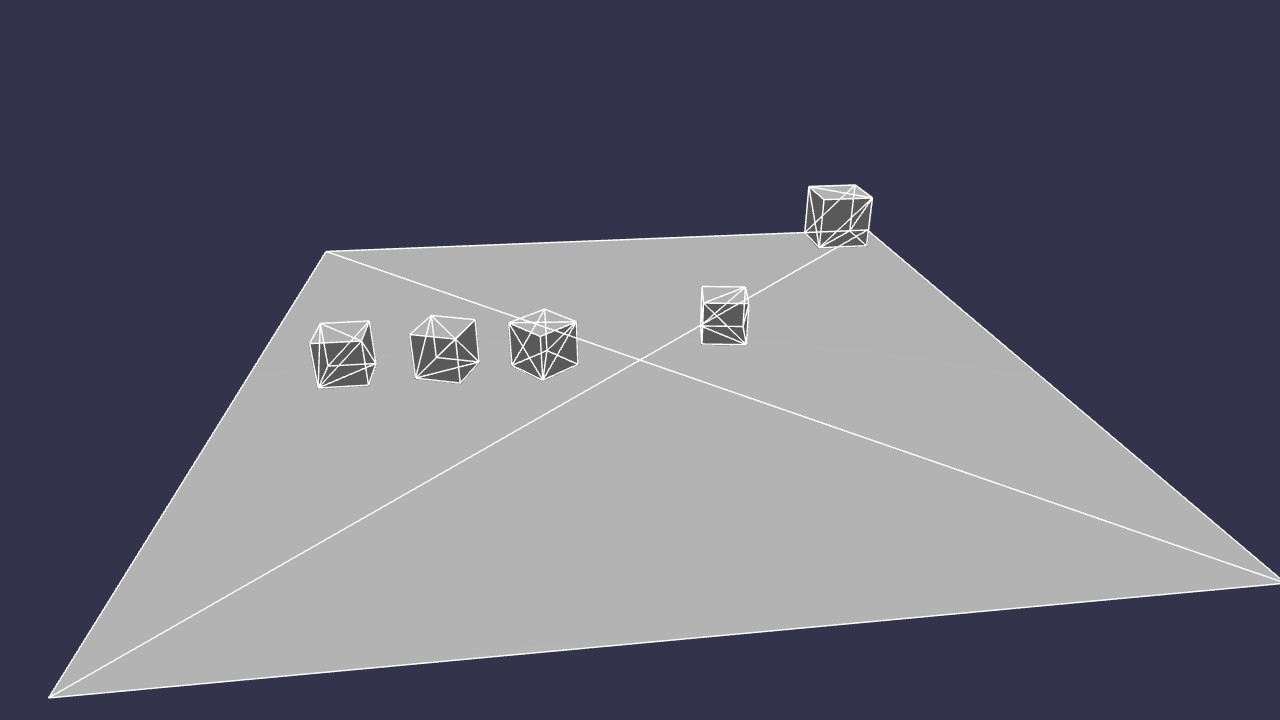
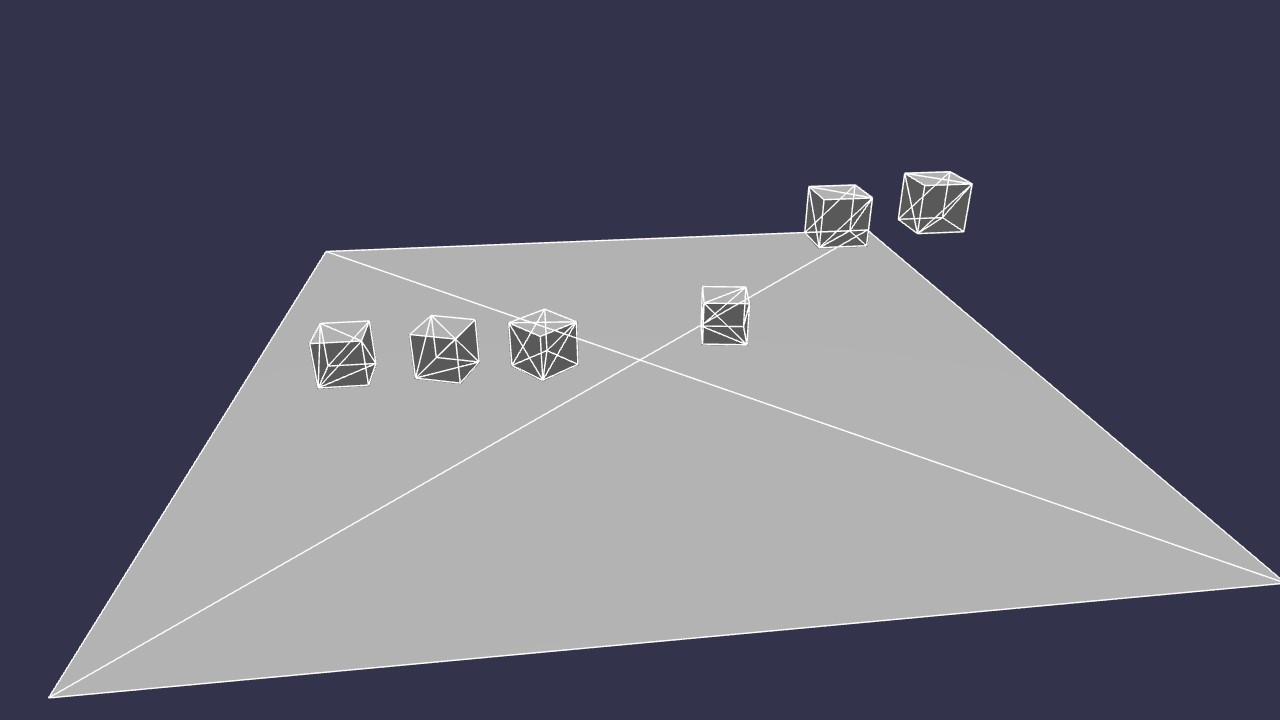
test(physics): update scene307 w. LWR setPhysicsBodyTransform

Changed region(s): [[0.6875, 0.2139, 0.7812, 0.3361], [0.5312, 0.3972, 0.5938, 0.4889]]

diff --git a/lab/lite/src/bjs/scene307.ts b/lab/lite/src/bjs/scene307.ts
@@ -84,7 +84,6 @@ function readCaptureAfterFrames(): number | null {
     // dynamic cube2 with offset parent
     const parent2 = new TransformNode("parent2", scene);
     parent2.position.set(OFFSET - 4, 3, OFFSET);
-
     parent2.rotationQuaternion = Quaternion.FromEulerAngles(0, (20 * Math.PI) / 180, 0);
     const cube2 = MeshBuilder.CreateBox("cube2", undefined, scene);
     cube2.material = cubeMat;
@@ -112,7 +111,7 @@ function readCaptureAfterFrames(): number | null {
 
     // dynamic cube4 with offset parents and pre-step
     const parent4a = new TransformNode("parent4a", scene);
-    const parent4b = new TransformNode("parent4", scene);
+    const parent4b = new TransformNode("parent4b", scene);
     parent4b.position.set(OFFSET + 2, 3, OFFSET);
     parent4b.parent = parent4a;
     const cube4 = MeshBuilder.CreateBox("cube4", undefined, scene);
@@ -125,7 +124,7 @@ function readCaptureAfterFrames(): number | null {
     });
     agg4.body.disablePreStep = false;
 
-    // dynamic cube4 with offset parents and pre-step
+    // animated cube5 with offset parents
     const parent5a = new TransformNode("parent5a", scene);
     const parent5b = new TransformNode("parent5b", scene);
     parent5b.position.set(OFFSET + 4, 2, OFFSET);
@@ -141,6 +140,19 @@ function readCaptureAfterFrames(): number | null {
     agg5.body.disablePreStep = true;
     agg5.body.setMotionType(PhysicsMotionType.ANIMATED);
     agg5.body.setPrestepType(PhysicsPrestepType.ACTION);
+
+    // dynamic teleported cube6 with offset parent
+    const parent6 = new TransformNode("parent6", scene);
+    parent6.position.set(OFFSET + 6, 3, OFFSET);
+    parent6.rotationQuaternion = Quaternion.FromEulerAngles(0, (40 * Math.PI) / 180, 0);
+    const cube6 = MeshBuilder.CreateBox("cube6", undefined, scene);
+    cube6.material = cubeMat;
+    cube6.parent = parent6;
+    const agg6 = new PhysicsAggregate(cube6, PhysicsShapeType.BOX, {
+        mass: 1,
+        friction: 0.5,
+        restitution: 0.1,
+    });
 
     // physics debug viewer
     const physicsViewer = new PhysicsViewer();
@@ -180,6 +192,9 @@ function readCaptureAfterFrames(): number | null {
             parent4b.rotationQuaternion = Quaternion.FromEulerAngles(0, (simulatedFrames * Math.PI) / 180, 0);
 
             parent5a.position.y = Math.sin((simulatedFrames * Math.PI) / 180);
+
+            // teleport cube6
+            agg6.body.setTargetTransform(new Vector3(OFFSET + 6, 3 + 0.2 * Math.sin((simulatedFrames * Math.PI) / 180), OFFSET), Quaternion.Identity());
         }
     });
     scene.onAfterRenderObservable.add(() => {

diff --git a/lab/lite/src/lite/scene307.ts b/lab/lite/src/lite/scene307.ts
@@ -27,6 +27,7 @@ import {
     setPhysicsBodyMotionType,
     setPhysicsBodyPreStep,
     setPhysicsBodyPrestepType,
+    setPhysicsBodyTransform,
     showPhysicsBody,
     startEngine,
     stopEngine,
@@ -121,7 +122,7 @@ async function main(): Promise<void> {
     root.scaling.x = -1;
     addToScene(scene, root);
     const cube3 = createBox(engine, 1);
-    cube3.position.set(OFFSET - 2, 3, OFFSET);
+    cube3.position.set(2 - OFFSET, 3, OFFSET);
     const rotQ2 = eulerXYZToQuatTuple(0, (40 * Math.PI) / 180, 0);
     cube3.rotationQuaternion.set(rotQ2[0], rotQ2[1], rotQ2[2], rotQ2[3]);
     cube3.material = cubeMat;
@@ -145,6 +146,7 @@ async function main(): Promise<void> {
     const agg4 = createPhysicsAggregate(world, cube4, PhysicsShapeType.BOX, { mass: 1, friction: 0.5, restitution: 0.1 });
     setPhysicsBodyPreStep(agg4.body, true);
 
+    // animated cube5 with offset parents
     const parent5a = createTransformNode("parent5a");
     addToScene(scene, parent5a);
     const parent5b = createTransformNode("parent5b", OFFSET + 4, 2, OFFSET);
@@ -160,6 +162,18 @@ async function main(): Promise<void> {
     setPhysicsBodyPreStep(agg5.body, false);
     setPhysicsBodyPrestepType(agg5.body, PhysicsPrestepType.ACTION);
     setPhysicsBodyMotionType(world, agg5.body, PhysicsMotionType.ANIMATED);
+
+    // dynamic teleported cube6 with offset parent
+    const parent6 = createTransformNode("parent6", OFFSET + 6, 3, OFFSET);
+    const rotQ6 = eulerXYZToQuatTuple(0, (40 * Math.PI) / 180, 0);
+    parent6.rotationQuaternion.set(rotQ6[0], rotQ6[1], rotQ6[2], rotQ6[3]);
+    addToScene(scene, parent6);
+    const cube6 = createBox(engine, 1);
+    cube6.material = cubeMat;
+    cube6.parent = parent6;
+    parent6.children.push(cube6);
+    addToScene(scene, cube6);
+    const agg6 = createPhysicsAggregate(world, cube6, PhysicsShapeType.BOX, { mass: 0, friction: 0.5, restitution: 0.1 });
 
     // physics debug viewer
     const physViewer = createPhysicsViewer(scene, world, { color: [1, 1, 1, 1] });
@@ -188,6 +202,9 @@ async function main(): Promise<void> {
             parent4b.rotationQuaternion.set(rotQ4[0], rotQ4[1], rotQ4[2], rotQ4[3]);
 
             parent5a.position.y = Math.sin((simulatedFrames * Math.PI) / 180);
+
+            // teleport cube6
+            setPhysicsBodyTransform(world, agg6.body, { x: OFFSET + 6, y: 3 + 0.2 * Math.sin((simulatedFrames * Math.PI) / 180), z: OFFSET }, { x: 0, y: 0, z: 0, w: 1 });
         }
     });
 
